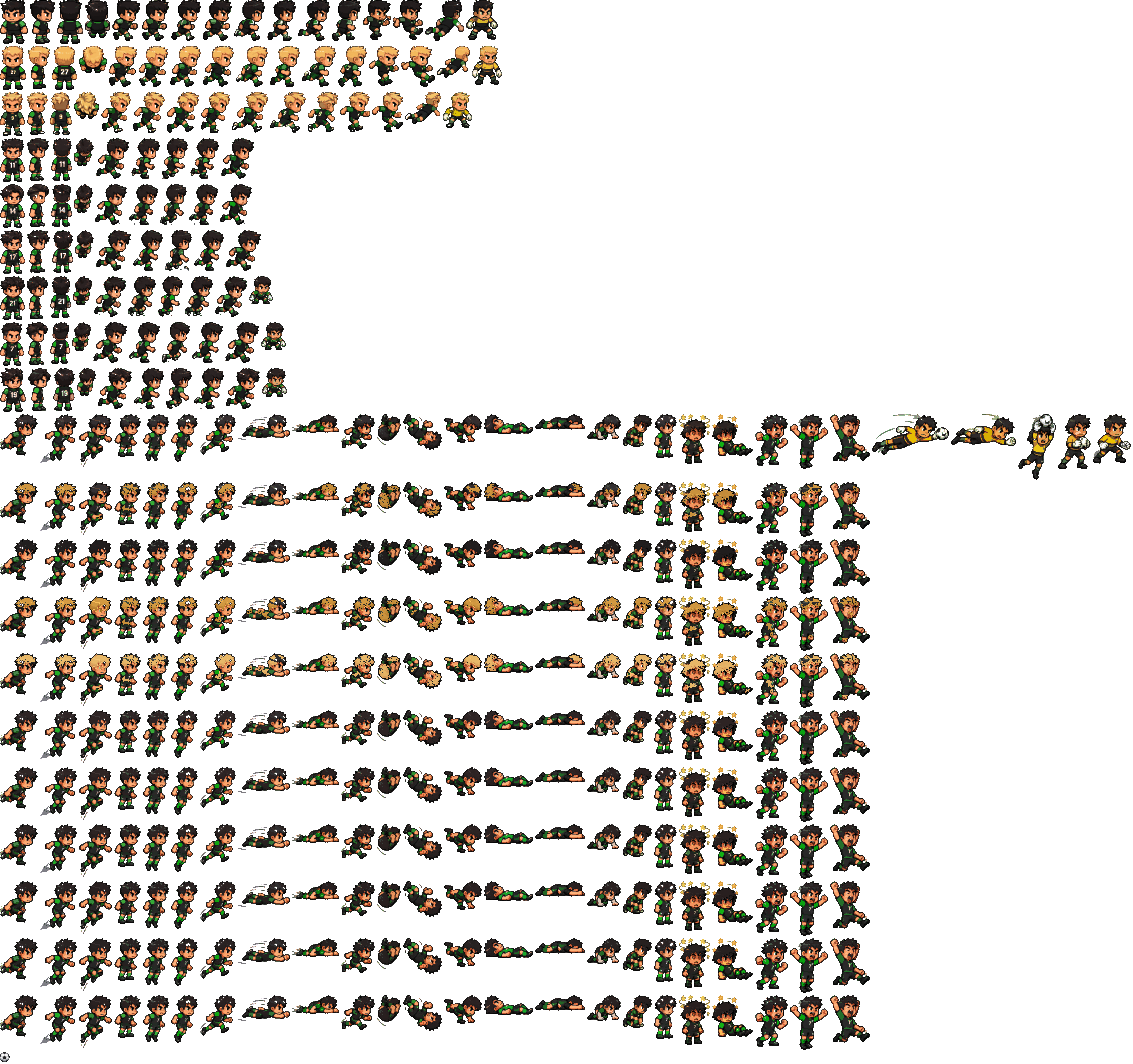
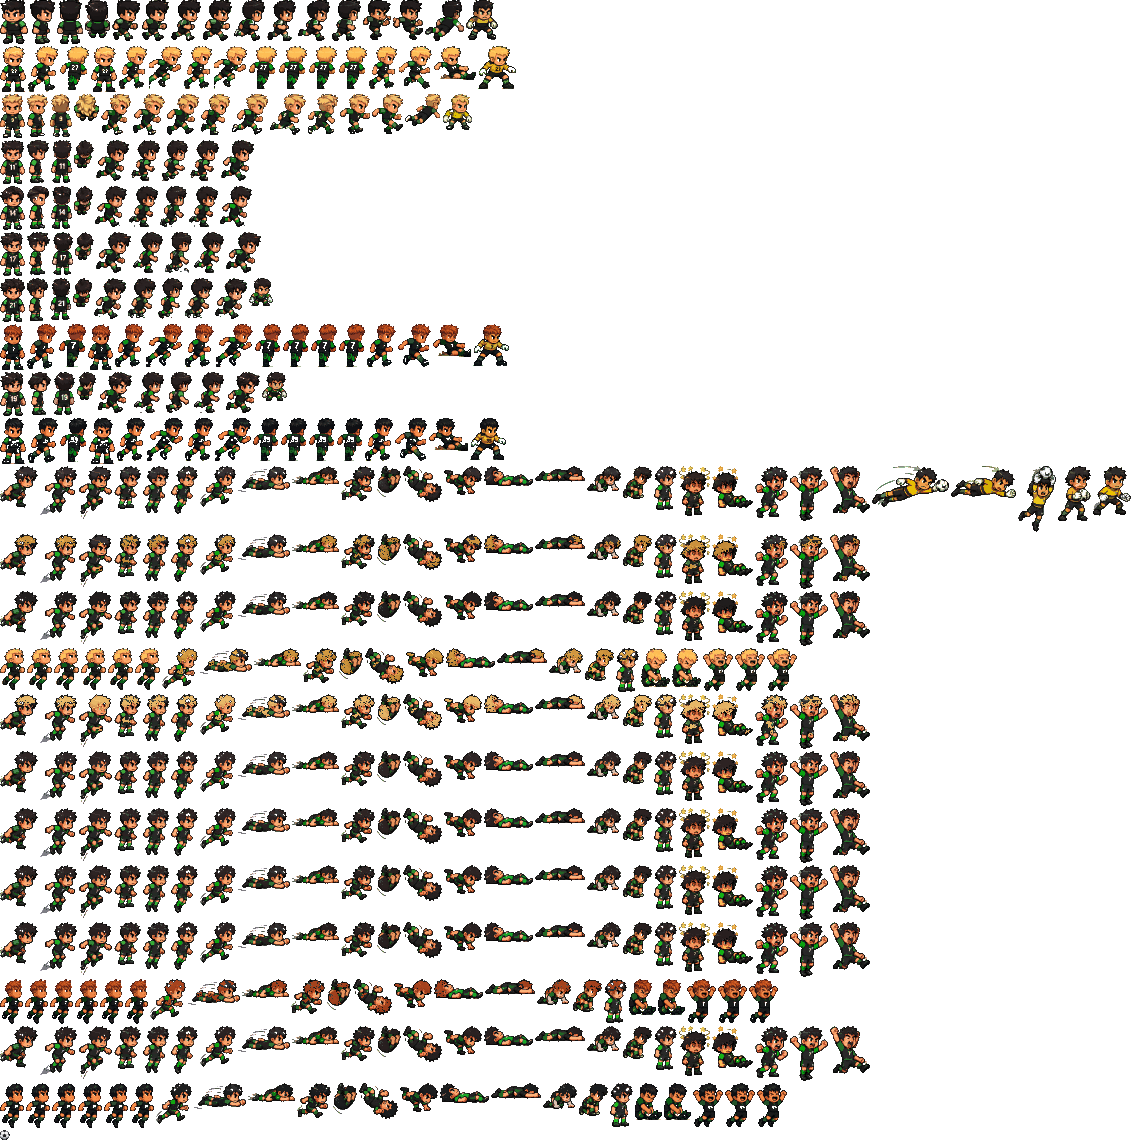
Nowi zawodnicy 27, 99, 7; ikony przycisków; sterowanie dotknięciem zawodnika; tryb kapki
Claude-Session: https://claude.ai/code/session_01Y9XNosS9qXxorLv9Jh2D4n

diff --git a/index.html b/index.html
@@ -87,12 +87,18 @@
   #joy.on .knob { background: radial-gradient(circle at 38% 32%, #fff6c0, #ffe14a 55%, #b08a00); }
   #btns { right: max(14px, env(safe-area-inset-right)); width: 282px; height: 186px; }
   .nb { position: absolute; width: 74px; text-align: center; }
-  .nb i { display: block; width: 58px; height: 58px; margin: 0 auto; border-radius: 50%; background: radial-gradient(circle at 40% 35%, var(--hi), var(--lo) 70%); border: 4px solid #2a2a2c; box-shadow: 0 0 0 5px #bdbdbd, 0 4px 0 5px #8e8e8e; }
+  .nb i { display: block; width: 68px; height: 68px; margin: 0 auto; background: var(--ic) center / contain no-repeat; image-rendering: pixelated; filter: drop-shadow(0 4px 0 rgba(0,0,0,.45)); }
+  .nb.down i { background-image: var(--on); transform: translateY(3px); filter: drop-shadow(0 1px 0 rgba(0,0,0,.45)); }
   #nbShoot { --hi: #f0453a; --lo: #b5121b; --tx: #ff5a4a; } #nbPass { --hi: #5be36e; --lo: #17892b; --tx: #5be36e; } #nbJump { --hi: #5aa8ff; --lo: #1a4fb5; --tx: #6ab4ff; }
   #nbSlide { --hi: #ffe14a; --lo: #c08a00; --tx: #ffe14a; } #nbSprint { --hi: #ff9a3a; --lo: #c2510a; --tx: #ff9a3a; } #nbSwap { --hi: #4ff0d4; --lo: #0d8a76; --tx: #4ff0d4; }
   .nb span { display: block; margin-top: 9px; font: 700 12px "Pixelify Sans", monospace; color: var(--tx); text-shadow: 1px 1px 0 #000, -1px -1px 0 #000, 1px -1px 0 #000, -1px 1px 0 #000; letter-spacing: .04em; }
-  .nb.down i { transform: translateY(3px); box-shadow: 0 0 0 5px #bdbdbd, 0 1px 0 5px #8e8e8e; filter: brightness(.75); }
-  #nbJump { right: 96px; top: 0; } #nbSlide { right: 0; top: 0; } #nbPass { right: 96px; top: 98px; } #nbShoot { right: 0; top: 98px; } #nbSprint { right: 190px; top: 56px; } #nbSwap { right: 190px; top: -34px; } #nbSwap i { width: 46px; height: 46px; } #nbSwap span { margin-top: 6px; }
+  #nbJump { --ic: url(btn_jump.png); --on: url(btn_jump_on.png); }
+  #nbSlide { --ic: url(btn_slide.png); --on: url(btn_slide_on.png); }
+  #nbPass { --ic: url(btn_pass.png); --on: url(btn_pass_on.png); }
+  #nbShoot { --ic: url(btn_shoot.png); --on: url(btn_shoot_on.png); }
+  #nbSprint { --ic: url(btn_sprint.png); --on: url(btn_sprint_on.png); }
+  #nbSwap { --ic: url(btn_swap.png); --on: url(btn_swap_on.png); }
+  #nbJump { right: 96px; top: 0; } #nbSlide { right: 0; top: 0; } #nbPass { right: 96px; top: 98px; } #nbShoot { right: 0; top: 98px; } #nbSprint { right: 190px; top: 56px; } #nbSwap { right: 190px; top: -34px; } #nbSwap i { width: 54px; height: 54px; } #nbSwap span { margin-top: 6px; }
   /* the crowd in front of the camera, out of focus */
   #front { position: fixed; left: -4%; width: 108%; bottom: -2vh; height: 19vh; z-index: 2; pointer-events: none; filter: blur(7px) brightness(.55) saturate(.8); opacity: .92; display: none; animation: bob 1.6s ease-in-out infinite; }
   body.playing #front { display: block; }
@@ -146,6 +152,44 @@
   @keyframes pbar { from { width: 100%; } to { width: 0; } }
   #picker .phint { margin-top: 7px; font-size: 13px; opacity: .8; } body.touch #picker .phint.k-keys { display: none; } body:not(.touch) #picker .phint.k-touch { display: none; }
   body.touch #picker .pc { width: 96px; font-size: 12px; } body.touch #picker { padding-top: 10px; }
+  #modes { position: fixed; inset: 0; z-index: 19; display: grid; place-items: center; background: #02070f; overflow: hidden; }
+  #modes[hidden] { display: none; }
+  #modes .logo { position: absolute; left: 50%; top: 50%; width: max(100vw, 177.78vh); height: max(56.25vw, 100vh); transform: translate(-50%, -50%); object-fit: cover; opacity: .6; filter: blur(1px); pointer-events: none; }
+  #modes .mtitle { font: italic 700 clamp(40px, 9vw, 78px) "Pixelify Sans", monospace; color: #fff; text-shadow: 4px 4px 0 #000, -2px -2px 0 #000; margin-bottom: 10px; letter-spacing: -.02em; } #modes .mtitle b { color: #3fe060; }
+  #modes .mbox { position: relative; z-index: 1; text-align: center; padding: 12px; }
+  #modes small { display: inline-block; background: rgba(0,0,0,.7); padding: 3px 10px; font-size: 16px; letter-spacing: .2em; color: #8fd99a; margin-bottom: 12px; }
+  #modes .mrow { display: flex; gap: 14px; justify-content: center; flex-wrap: wrap; }
+  .mb { width: 210px; padding: 14px 10px 12px; font: 700 26px "Pixelify Sans", monospace; color: #fff; background: rgba(0,0,0,.78); border: 3px solid #5a5d66; cursor: pointer; }
+  .mb b { display: block; font-size: 40px; margin-bottom: 4px; } .mb em { display: block; font-style: normal; font-size: 13px; font-weight: 400; opacity: .8; margin-top: 4px; }
+  .mb.sel, .mb:hover { border-color: #ffe14a; transform: translateY(-3px); box-shadow: 0 6px 0 #000; }
+  .mhint { margin-top: 12px; font-size: 13px; opacity: .8; } body.touch .mhint { display: none; }
+  body.touch .mb { width: 170px; font-size: 22px; padding: 10px 8px; } body.touch .mb b { font-size: 32px; }
+  #kapki { position: fixed; inset: 0; z-index: 18; background: #02070f; overflow: hidden; touch-action: none; user-select: none; -webkit-user-select: none; }
+  #kapki[hidden] { display: none; }
+  #kapki .f169 { position: absolute; left: 50%; top: 50%; width: max(100vw, 177.78vh); height: max(56.25vw, 100vh); transform: translate(-50%, -50%); }
+  #kapki .f169 img { width: 100%; height: 100%; object-fit: cover; display: block; }
+  #jug { position: absolute; left: 50%; bottom: 3vh; height: min(66vh, 120vw); aspect-ratio: 147 / 150; transform: translateX(-50%); background: url(juggle.png) 0 0 / 1600% 100% no-repeat; image-rendering: pixelated; filter: drop-shadow(0 6px 0 rgba(0,0,0,.35)); }
+  #jug.bump { animation: bump .18s steps(3); } @keyframes bump { 50% { transform: translateX(-50%) translateY(-6px); } }
+  #kdots { position: absolute; inset: 0; }
+  .kd { position: absolute; width: 84px; height: 84px; margin: -42px 0 0 -42px; border-radius: 50%; background: radial-gradient(circle, #ffe14a 0 30%, #ff8a1f 31% 44%, transparent 45%); cursor: pointer; animation: kin .12s steps(3); }
+  .kd::before { content: ''; position: absolute; inset: -16px; border-radius: 50%; border: 5px solid #fff; box-shadow: 0 0 0 3px #000, inset 0 0 0 3px #000; animation: kring var(--t) linear forwards; }
+  .kd::after { content: ''; position: absolute; inset: 0; border-radius: 50%; border: 4px solid #000; }
+  @keyframes kring { from { transform: scale(1.9); opacity: .3; } to { transform: scale(.62); opacity: 1; } }
+  @keyframes kin { from { transform: scale(.3); } }
+  .kpop { position: absolute; font: 700 28px "Pixelify Sans", monospace; color: #ffe14a; text-shadow: 3px 3px 0 #000; pointer-events: none; animation: kpop .6s steps(6) forwards; }
+  @keyframes kpop { to { transform: translateY(-50px); opacity: 0; } }
+  .khud { position: absolute; left: max(12px, env(safe-area-inset-left)); top: max(10px, env(safe-area-inset-top)); display: flex; gap: 10px; }
+  .khud div { background: linear-gradient(#24272c, #101114); border: 2px solid #3a3d44; border-radius: 6px; padding: 4px 12px; text-align: center; }
+  .khud small { display: block; font-size: 11px; letter-spacing: .14em; opacity: .7; } .khud b { font-size: 30px; line-height: 1; } #kscore { color: #ffe14a; }
+  #kmsg { position: absolute; left: 50%; top: 20%; transform: translateX(-50%); text-align: center; text-shadow: 3px 3px 0 #000; pointer-events: none; }
+  #kmsg b { display: block; font-size: clamp(26px, 6vw, 44px); color: #ffe14a; animation: blink .9s steps(2, jump-none) infinite; } #kmsg span { font-size: 15px; }
+  #kend { position: absolute; inset: 0; display: grid; place-items: center; background: rgba(0,0,0,.5); }
+  #kend[hidden] { display: none; }
+  #kend .tbox { background: #000; border: 3px solid #8a8a8a; padding: 14px 22px; text-align: center; }
+  #kend small { letter-spacing: .2em; color: #ff8a1f; } .kres { font-size: 22px; margin: 6px 0; } .kres b { font-size: 54px; color: #ffe14a; }
+  #kend p { margin: 0 0 10px; color: #8fd99a; min-height: 1em; }
+  .btn.ghost { background: transparent; border-color: #8a8a8a; color: #fff; }
+  #kback { right: max(10px, env(safe-area-inset-right)); top: max(10px, env(safe-area-inset-top)); }
   #tip { position: fixed; inset: 0; z-index: 9; display: grid; place-items: center; background: rgba(0,0,0,.55); padding: 12px; cursor: pointer; }
   #tip[hidden] { display: none; }
   #tip .tbox { max-height: 94vh; overflow: auto; max-width: 600px; text-align: center; background: #000; border: 3px solid #8a8a8a; padding: 14px 18px 16px; box-shadow: 0 6px 0 rgba(0,0,0,.5); }
@@ -190,7 +234,7 @@
       <dt><span class="kc w">SPACJA</span> <span class="kc">K</span></dt><dd><b style="color:var(--o)">SUPER STRZAŁ:</b> skocz z piłką i wciśnij strzał, potem wybierz, który (<span class="kc">←</span><span class="kc">→</span> i <span class="kc">K</span>). Kolorowe kostki na boisku dają nowe super strzały, wbiegnij w nie z piłką</dd>
       <dt><span class="kc">↑</span><span class="kc">↓</span> <span class="kc">K</span></dt><dd>rzut karny: wybierz róg i strzel</dd>
     </dl>
-    <dl class="how k-touch"><dt>Gałka</dt><dd>ruch</dd><dt>PODAJ · STRZAŁ</dt><dd>podanie i strzał (w powietrzu: główka, wolej, przewrotka)</dd><dt>WŚLIZG</dt><dd>wślizg · w powietrzu: kopnięcie z wyskoku</dd><dt>SKOK</dt><dd>skok, także z piłką</dd><dt>SPRINT</dt><dd>przytrzymaj, żeby biec szybciej</dd><dt>ZMIANA</dt><dd>przełącz na zawodnika najbliżej piłki</dd></dl>
+    <dl class="how k-touch"><dt>Gałka</dt><dd>ruch</dd><dt>PODAJ · STRZAŁ</dt><dd>podanie i strzał (w powietrzu: główka, wolej, przewrotka)</dd><dt>WŚLIZG</dt><dd>wślizg · w powietrzu: kopnięcie z wyskoku</dd><dt>SKOK</dt><dd>skok, także z piłką</dd><dt>SPRINT</dt><dd>przytrzymaj, żeby biec szybciej</dd><dt>ZMIANA</dt><dd>przełącz na zawodnika najbliżej piłki</dd><dt>Dotknięcie</dt><dd>dotknij kolegi na boisku, żeby nim sterować</dd></dl>
     <p class="note" style="margin:0 0 12px;opacity:.75">Grasz DOMINIKIEM, blondynem z 27. Bez piłki sterujesz tym, kto jest najbliżej (żółta strzałka). 2 połowy po 2:00, faul w polu karnym to karny.</p>
     <div class="row"><button class="btn" id="play" disabled>WCZYTUJĘ…</button><span class="go k-keys">albo <span class="kc w">ENTER</span></span></div>
   </div>
@@ -198,9 +242,17 @@
 <div class="ov" id="end" hidden><div class="panel"><h1 id="endT">KONIEC</h1><div id="final">0 : 0</div><div class="row"><button class="btn" id="again">REWANŻ</button></div></div></div>
 <div id="penHint"></div>
 <div id="bag" class="hud"></div>
+<div id="modes" hidden><div class="mbox"><img class="logo" src="kapki_bg.jpg" alt=""><div class="mtitle"><b>27</b>football</div><small>WYBIERZ TRYB</small>
+  <div class="mrow"><button class="mb" data-m="match"><b>⚽</b>MECZ<em>Cuiavia kontra Fioletowi</em></button><button class="mb" data-m="kapki"><b>🎯</b>KAPKI<em>dotykaj kółek, żongluj piłką</em></button></div>
+  <div class="mhint k-keys"><span class="kc">←</span><span class="kc">→</span> wybierz · <span class="kc w">ENTER</span> start</div></div></div>
+<div id="kapki" hidden><div class="f169"><img src="kapki_bg.jpg" alt=""></div><div id="jug"></div><div id="kdots"></div>
+  <div class="khud"><div><small>KAPKI</small><b id="kscore">0</b></div><div><small>REKORD</small><b id="kbest">0</b></div></div>
+  <div id="kmsg"><b>DOTYKAJ KÓŁEK!</b><span>Masz chwilę na każde, inaczej piłka spadnie.</span></div>
+  <div id="kend" hidden><div class="tbox"><small>PIŁKA SPADŁA</small><div class="kres"><b id="kres">0</b> kapek</div><p id="knew"></p><div class="row"><button class="btn" id="kagain">JESZCZE RAZ</button><button class="btn ghost" id="kmenu">MENU</button></div></div></div>
+  <button class="ibtn" id="kback">✕ MENU</button></div>
 <div id="picker" hidden><div class="pbox"><small>WYBIERZ SUPER STRZAŁ</small><div class="cards" id="pcards"></div><div class="pbar"><i></i></div><div class="phint k-keys">← → wybierz · <span class="kc">K</span> strzał · albo <span class="kc">1</span>–<span class="kc">4</span></div><div class="phint k-touch">Dotknij strzału, który chcesz oddać</div></div></div>
 <div id="tip" hidden><div class="tbox"><small>PODPOWIEDŹ</small><div class="combo"><span class="cb" style="--c:#5aa8ff">SKOK</span><b>+</b><span class="cb" style="--c:#f0453a">STRZAŁ</span><b>=</b><span class="sup">SUPER STRZAŁ!</span></div>
-  <p>Skocz z piłką i wciśnij STRZAŁ. Gra się zatrzyma i wybierzesz, który super strzał oddać.</p><p>Wbiegnij z piłką w kolorową kostkę na boisku, a dostaniesz nowy: <b style="color:#ffe14a">BŁYSKAWICA</b> powala wszystkich rywali, <b style="color:#5fd8ff">ROZDWOJENIE</b> wysyła trzy piłki naraz, <b style="color:#ff6ab8">MEGA PIŁKA</b> taranuje wszystko po drodze.</p><p class="k-keys"><span class="kc w">SPACJA</span> potem <span class="kc">K</span> · sprint: <span class="kc w">SHIFT</span> · zmiana zawodnika: <span class="kc">Q</span></p><p class="k-touch">Przytrzymaj SPRINT, żeby biec szybciej. ZMIANA przełącza zawodnika.</p>
+  <p>Skocz z piłką i wciśnij STRZAŁ. Gra się zatrzyma i wybierzesz, który super strzał oddać.</p><p>Wbiegnij z piłką w kolorową kostkę na boisku, a dostaniesz nowy: <b style="color:#ffe14a">BŁYSKAWICA</b> powala wszystkich rywali, <b style="color:#5fd8ff">ROZDWOJENIE</b> wysyła trzy piłki naraz, <b style="color:#ff6ab8">MEGA PIŁKA</b> taranuje wszystko po drodze.</p><p class="k-keys"><span class="kc w">SPACJA</span> potem <span class="kc">K</span> · sprint: <span class="kc w">SHIFT</span> · zmiana zawodnika: <span class="kc">Q</span></p><p class="k-touch">Przytrzymaj SPRINT, żeby biec szybciej. Dotknij kolegi na boisku albo wciśnij ZMIANA, żeby nim sterować.</p>
   <div class="cont">▶ DOTKNIJ ALBO WCIŚNIJ KLAWISZ, ŻEBY GRAĆ</div></div></div>
 <div class="nes" id="joy"><div class="base"></div><div class="knob"></div></div>
 <div class="nes" id="btns"><div class="nb" id="nbJump"><i></i><span>SKOK</span></div><div class="nb" id="nbSlide"><i></i><span>WŚLIZG</span></div><div class="nb" id="nbPass"><i></i><span>PODAJ</span></div><div class="nb" id="nbShoot"><i></i><span>STRZAŁ</span></div><div class="nb" id="nbSprint"><i></i><span>SPRINT</span></div><div class="nb" id="nbSwap"><i></i><span>ZMIANA</span></div></div>
@@ -284,7 +336,44 @@
   // after PRESS START: a phone goes straight onto the pitch (the pad is on screen), a desktop first shows the keys
   const afterIntro = () => { if (!ready) { wantStart = true; $('pressStart').firstChild.innerHTML = 'WCZYTUJĘ…'; return; }
     $('intro').hidden = true; for (const v of [$('v1'), $('v2')]) { v.pause(); v.removeAttribute('src'); v.load(); }
-    if (touch) go(); else { $('menu').hidden = false; $('play').focus(); } };
+    showModes(); };
+  // ---- the mode screen: a match, or keepy-uppy on the stadium from the intro ----
+  let modeSel = 0;
+  const showModes = () => { $('modes').hidden = false; modeSel = 0; markMode(); };
+  const markMode = () => document.querySelectorAll('#modes .mb').forEach((b, i) => b.classList.toggle('sel', i === modeSel));
+  const pickMode = (m) => { $('modes').hidden = true; if (m === 'kapki') K.start(); else if (touch) go(); else { $('menu').hidden = false; $('play').focus(); } };
+  document.querySelectorAll('#modes .mb').forEach((b) => b.addEventListener('click', () => pickMode(b.dataset.m)));
+  // keepy-uppy: a dot appears, you have about a second to tap it; every tap is a touch on the ball
+  const K = (() => {
+    const FW = 16, jug = $('jug'), dots = $('kdots'); let score = 0, best = 0, alive = false, timer = 0, AC = null, airT = 0, pairI = 0;
+    try { best = +localStorage.getItem('kapki_best') || 0; } catch (e) {}
+    const PAIRS = [[1, 3], [2, 4], [5, 7], [6, 10], [8, 11], [9, 0], [13, 4], [14, 7]];
+    const frame = (i) => { jug.style.backgroundPosition = `${(i / (FW - 1)) * 100}% 0`; };
+    const tone = (f, d = 0.09, type = 'square', v = 0.06) => { try { AC = AC || new (window.AudioContext || window.webkitAudioContext)(); const t = AC.currentTime, o = AC.createOscillator(), g = AC.createGain();
+      o.type = type; o.frequency.setValueAtTime(f, t); g.gain.setValueAtTime(v, t); g.gain.exponentialRampToValueAtTime(0.001, t + d); o.connect(g).connect(AC.destination); o.start(t); o.stop(t + d + 0.02); } catch (e) {} };
+    const shout = () => { try { const a = new Audio(`shout${1 + ((Math.random() * 5) | 0)}.mp3`); a.volume = 0.8; a.play().catch(() => {}); } catch (e) {} };
+    const win = () => Math.max(0.62, 1.05 - score * 0.012);   // seconds you have for each dot
+    const spawn = () => { dots.innerHTML = ''; const d = document.createElement('div'); d.className = 'kd'; const t = win(); d.style.setProperty('--t', t + 's');
+      const W = innerWidth, H = innerHeight; let x, y; const jr = jug.getBoundingClientRect();
+      for (let k = 0; k < 12; k++) { x = 60 + Math.random() * (W - 120); y = Math.max(90, H * 0.12) + Math.random() * (H * 0.72 - 90); if (!(x > jr.left - 30 && x < jr.right + 30 && y > jr.top + jr.height * 0.25)) break; }
+      d.style.left = x + 'px'; d.style.top = y + 'px';
+      d.addEventListener('pointerdown', (e) => { e.preventDefault(); e.stopPropagation(); hit(d, x, y); });
+      dots.appendChild(d); clearTimeout(timer); timer = setTimeout(miss, t * 1000); };
+    const hit = (d, x, y) => { if (!alive) return; clearTimeout(timer); d.remove(); score++; $('kscore').textContent = score; $('kmsg').hidden = true;
+      const pr = PAIRS[pairI++ % PAIRS.length]; frame(pr[0]); clearTimeout(airT); airT = setTimeout(() => frame(pr[1]), 140);
+      jug.classList.remove('bump'); void jug.offsetWidth; jug.classList.add('bump');
+      tone(520 + Math.min(score, 40) * 18, 0.08); if (score % 10 === 0) { tone(1320, 0.25, 'square', 0.05); shout(); }
+      const pop = document.createElement('div'); pop.className = 'kpop'; pop.textContent = score % 10 === 0 ? score + '!' : '+1'; pop.style.left = x - 20 + 'px'; pop.style.top = y - 30 + 'px'; $('kapki').appendChild(pop); setTimeout(() => pop.remove(), 650);
+      setTimeout(() => alive && spawn(), 120); };
+    const miss = () => { if (!alive) return; alive = false; dots.innerHTML = ''; frame(12); setTimeout(() => frame(15), 450); tone(220, 0.35, 'sawtooth', 0.06); setTimeout(() => tone(140, 0.4, 'sawtooth', 0.06), 160);
+      const rec = score > best; if (rec) { best = score; try { localStorage.setItem('kapki_best', best); } catch (e) {} }
+      $('kbest').textContent = best; $('kres').textContent = score; $('knew').textContent = rec && score ? 'NOWY REKORD!' : best ? `Rekord: ${best}` : '';
+      setTimeout(() => { $('kend').hidden = false; }, 700); };
+    const start = () => { $('kapki').hidden = false; $('kend').hidden = true; $('kmsg').hidden = false; score = 0; pairI = (Math.random() * 8) | 0; $('kscore').textContent = 0; $('kbest').textContent = best; frame(0); alive = true; setTimeout(() => alive && spawn(), 900); };
+    const stop = () => { alive = false; clearTimeout(timer); dots.innerHTML = ''; $('kapki').hidden = true; showModes(); };
+    $('kagain').addEventListener('click', start); $('kmenu').addEventListener('click', stop); $('kback').addEventListener('click', stop);
+    return { start, stop };
+  })();
   // ---- the intro ----
   { const I = $('intro'), v1 = $('v1'), v2 = $('v2'), ps = $('pressStart'), fc = $('flash'), fg = fc.getContext('2d');
     let stage = 1, flashing = false, AC = null;
@@ -310,6 +399,8 @@
     // keys belong to the intro and the controls screen while they are up, not to the game behind them
     document.addEventListener('keydown', (e) => {
       if (!I.hidden) { e.preventDefault(); e.stopPropagation(); if (e.repeat) return; if (stage === 3) { blip(); afterIntro(); } else if (['Enter', 'Escape', 'Space'].includes(e.code)) skip(); return; }
+      if (!$('modes').hidden) { e.preventDefault(); e.stopPropagation(); if (e.repeat) return; if (e.code === 'ArrowLeft' || e.code === 'ArrowRight' || e.code === 'KeyA' || e.code === 'KeyD') { modeSel ^= 1; markMode(); } else if (e.code === 'Digit1') pickMode('match'); else if (e.code === 'Digit2') pickMode('kapki'); else if (e.code === 'Enter' || e.code === 'Space') pickMode(modeSel ? 'kapki' : 'match'); return; }
+      if (!$('kapki').hidden) { e.preventDefault(); e.stopPropagation(); if (e.code === 'Escape') K.stop(); else if (!$('kend').hidden && (e.code === 'Enter' || e.code === 'Space') && !e.repeat) K.start(); return; }
       if (!$('tip').hidden) { e.preventDefault(); e.stopPropagation(); if (!e.repeat) unTip(); return; }
       if (!$('menu').hidden && !$('play').disabled && (e.code === 'Enter' || e.code === 'Space')) { e.preventDefault(); e.stopPropagation(); go(); } }, true);
     play(v1); }
@@ -330,6 +421,7 @@
   { const el = $('nbSprint'); el.addEventListener('pointerdown', (e) => { el.classList.add('down'); window.GAME?.setDash(true); e.preventDefault(); });
     for (const ev of ['pointerup', 'pointercancel', 'pointerleave']) el.addEventListener(ev, () => { el.classList.remove('down'); window.GAME?.setDash(false); }); }
   $('pcards').addEventListener('pointerdown', (e) => { const c = e.target.closest('.pc'); if (c) { e.preventDefault(); window.GAME?.pick(+c.dataset.i); } });
+  $('stage').addEventListener('pointerdown', (e) => { if (document.body.classList.contains('playing')) window.GAME?.tapAt(e.clientX, e.clientY); });
   addEventListener('contextmenu', (e) => e.preventDefault());
 }
 </script>

diff --git a/game.js b/game.js
@@ -21,7 +21,7 @@ const TEAMS = [
   { name: 'CUIAVIA', short: 'CUI', img: IMG_G, color: '#3fbf55', dir: 1,
     squad: [
       { sheet: '10', num: 1, name: 'MAREK', role: 'gk', pos: 'GK', keeper: true },
-      { sheet: '10', num: 10, name: 'KUBA', role: 'def', pos: 'DF', home: [9, 0], super: { name: 'SOLANKOWY ZYGZAK', kind: 'zigzag' } },
+      { sheet: '99', num: 99, name: 'KUBA', role: 'def', pos: 'DF', home: [9, 0], super: { name: 'SOLANKOWY ZYGZAK', kind: 'zigzag' } },
       { sheet: '9', num: 9, name: 'BARTEK', role: 'mid', pos: 'MF', home: [19, -8], super: { name: 'KUJAWSKA TRĄBA', kind: 'tornado' } },
       { sheet: '7', num: 7, name: 'KAMIL', role: 'mid', pos: 'MF', home: [19, 8], super: { name: 'BANAN Z INOWROCŁAWIA', kind: 'curve' } },
       { sheet: '27', num: 27, name: 'DOMINIK', role: 'fwd', pos: 'FW', home: [26, 0], super: { name: 'KUJAWSKA PETARDA', kind: 'fire' }, captain: true },
@@ -1169,7 +1169,13 @@ renderer.setAnimationLoop((now) => { if (!auto) return; const dt = Math.min(0.05
 placeKickoff(0); G.state = 'menu'; WX.set('leaves');
 window.GAME = {
   start() { G.inv = { lightning: 0, split: 0, mega: 0 }; PU.reset(); PICK.open = false; ui.picker?.(null); ui.inv?.(G.inv); G.score = [0, 0]; G.clock = 120; G.half = 1; placeKickoff(0); G.state = 'kickoff'; G.pause = 1.6; MUSIC.start(SFX.unlock()); VOICE.prime(); G.weather = Math.random() < 0.5 ? 'rain' : 'leaves'; setWeather(G.weather); ui.score?.(G); ui.banner?.('KICK OFF!', TEAMS[0], 'big'); },
-  press, pick: (i) => doPick(i), pickMove, powers: POWERS, icons: PU.icons, setStick(v) { stick = v; }, setDash(v) { padDash = v; }, freeze(v) { frozen = !!v; if (v) { keys.clear(); keyDash = false; } }, mute: () => SFX.toggle(),
+  press, pick: (i) => doPick(i), pickMove,
+  // a finger on a teammate takes control of him (not while you are the one with the ball)
+  tapAt(cx, cy) { if (G.state !== 'play' && G.state !== 'kickoff') return false; if (ball.owner === captain) return false;
+    const r = renderer.domElement.getBoundingClientRect(); let best = null, bd = 64; const v = new THREE.Vector3();
+    for (const q of players) { if (q.team !== 0 || q.keeper || q.st === 'down') continue; v.set(q.x, q.y + 1.1, q.z).project(camera);
+      const d = Math.hypot(r.left + (v.x + 1) / 2 * r.width - cx, r.top + (1 - v.y) / 2 * r.height - cy); if (d < bd) { bd = d; best = q; } }
+    if (!best || best === captain) return false; captain = best; switchT = 2.2; SFX.menu(); G.ca = Math.max(G.ca, 0.3); FX.emit('curve', best.x, 0.4, best.z, 10, 3, 0.25, 4); return true; }, powers: POWERS, icons: PU.icons, setStick(v) { stick = v; }, setDash(v) { padDash = v; }, freeze(v) { frozen = !!v; if (v) { keys.clear(); keyDash = false; } }, mute: () => SFX.toggle(),
   teams: TEAMS, frames: FR, images: [IMG_G, IMG_P], players, get captain() { return captain; }, get ball() { return ball; }, G,
 };
 window.__game = { goal: (t) => goalScored(t), pen: (t) => penaltyFor(t, players.find((q) => q.team === t && q.role === 'fwd')), G, ball, players, input, weather: (m) => { G.weather = m; setWeather(m); }, step(sec, fps = 30) { auto = false; for (let i = 0; i < Math.round(sec * fps); i++) step(1 / fps); }, resume() { last = performance.now(); auto = true; }, keys };

diff --git a/README.md b/README.md
@@ -31,7 +31,11 @@ Na boisku pojawiają się kolorowe kostki. Wbiegnij w nią z piłką, a do torby
 - **ROZDWOJENIE**: lecą trzy piłki naraz, a bramkarz nie wie, która jest prawdziwa.
 - **MEGA PIŁKA**: olbrzymia piłka taranuje każdego na swojej drodze.
 
-Faul w polu karnym to rzut karny.
+Faul w polu karnym to rzut karny. Na telefonie możesz też dotknąć kolegi na boisku, żeby nim sterować.
+
+## Tryb KAPKI
+
+Po PRESS START wybierasz MECZ albo KAPKI. W kapkach Dominik żongluje piłką na stadionie z intra. Na ekranie pojawiają się kółka, a na każde masz około sekundy. Jedno dotknięcie to jedna kapka. Spóźnisz się, piłka spada. Rekord zapisuje się w przeglądarce.
 
 ## Pliki
 
@@ -40,4 +44,6 @@ Faul w polu karnym to rzut karny.
 - `atlas_*.png`, `frames.json`: sprite'y zawodników
 - `fans.png`, `flag*.png`, `crowdfront.png`, `extras.json`: kibice i flagi
 - `intro*.mp4`, `intro*.jpg`: filmy intro
+- `juggle.png`, `kapki_bg.jpg`: tryb kapki
+- `btn_*.png`: ikony przycisków
 - `shout*.mp3`: okrzyki zawodników
